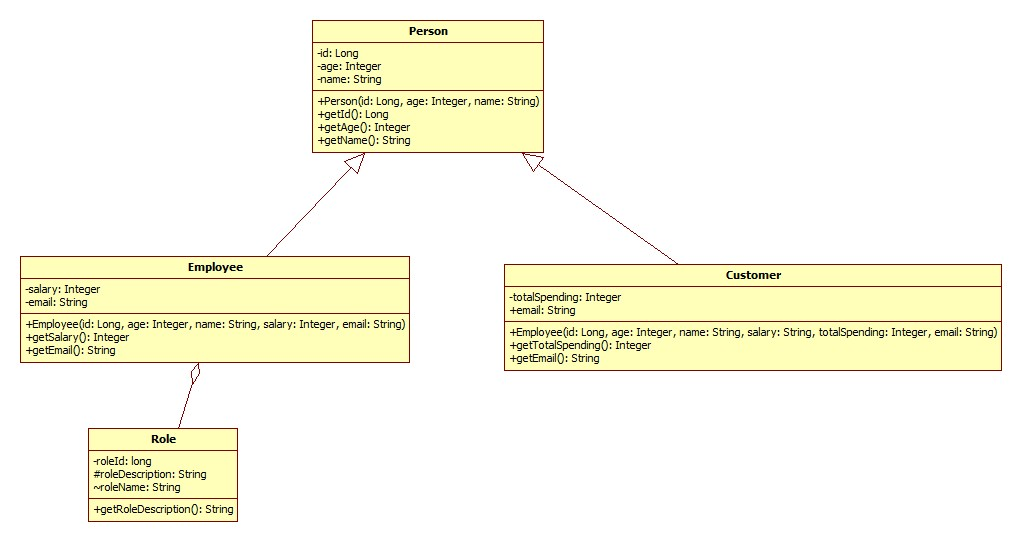
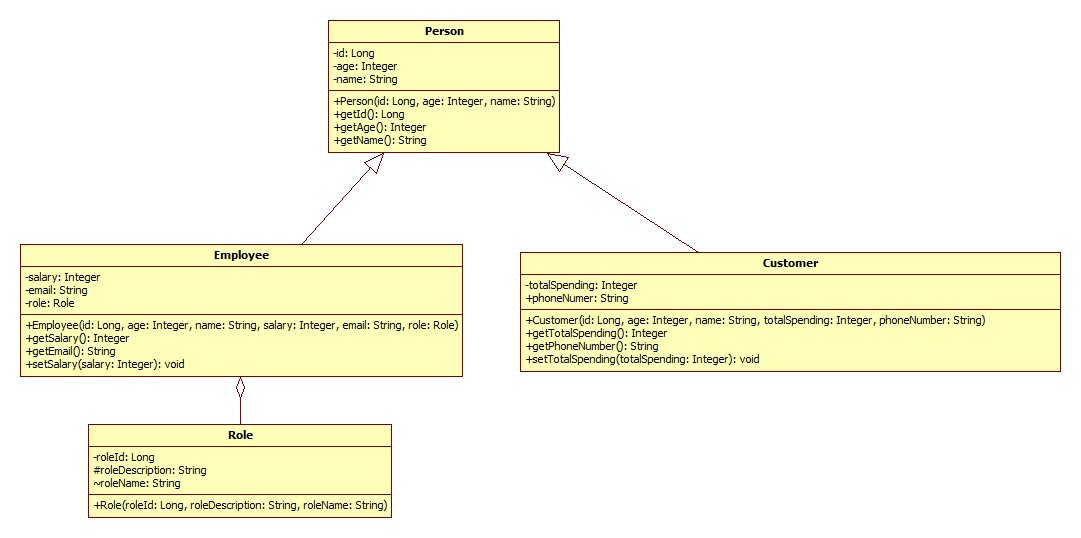
test2

diff --git a/src/main/java/template/EmployeeManager.java b/src/main/java/template/EmployeeManager.java
@@ -7,10 +7,5 @@ import java.util.Set;
 
 public class EmployeeManager {
 
-    private Set<Employee> customers;
-
-    public EmployeeManager() {
-        this.customers = new HashSet<>();
-    }
-
+    private Set<Employee> employees = new HashSet<>();
 }

diff --git a/readme.MD b/readme.MD
@@ -9,6 +9,8 @@
 >   - ❌ No external resources, documents, or AI chat tools
 ---
 
+> ℹ️ If additional elements are needed (e.g., getters/setters), you are allowed to add them.
+
 # Starting from the provided template, implement a program that follows the specifications below:
 
 ![Sample image](docs/sample.jpg)
@@ -20,9 +22,9 @@
 - Create a method that adds employees. Use the predefined `Set` from `EmployeeManager` to store and manage employees.
   Call it from the main method and add three employees. (1p)
 
-- Create a method to display all employee names sorted alphabetically with their salaries. (1p)
+- Create a method to display all employee names with their salaries. (1p)
 
-- Implement `updateSpendingById(Long id, Integer salary)` that updates an employee's salary by ID. (1p)
+- Implement `updateSalaryById(Long id, Integer salary)` that updates an employee's salary by ID. (1p)
 
 - Implement `findByEmail(String email)` in `EmployeeManager` so it returns the employee with the given email.
   The search must be case-insensitive and ignore leading/trailing spaces. (1p)